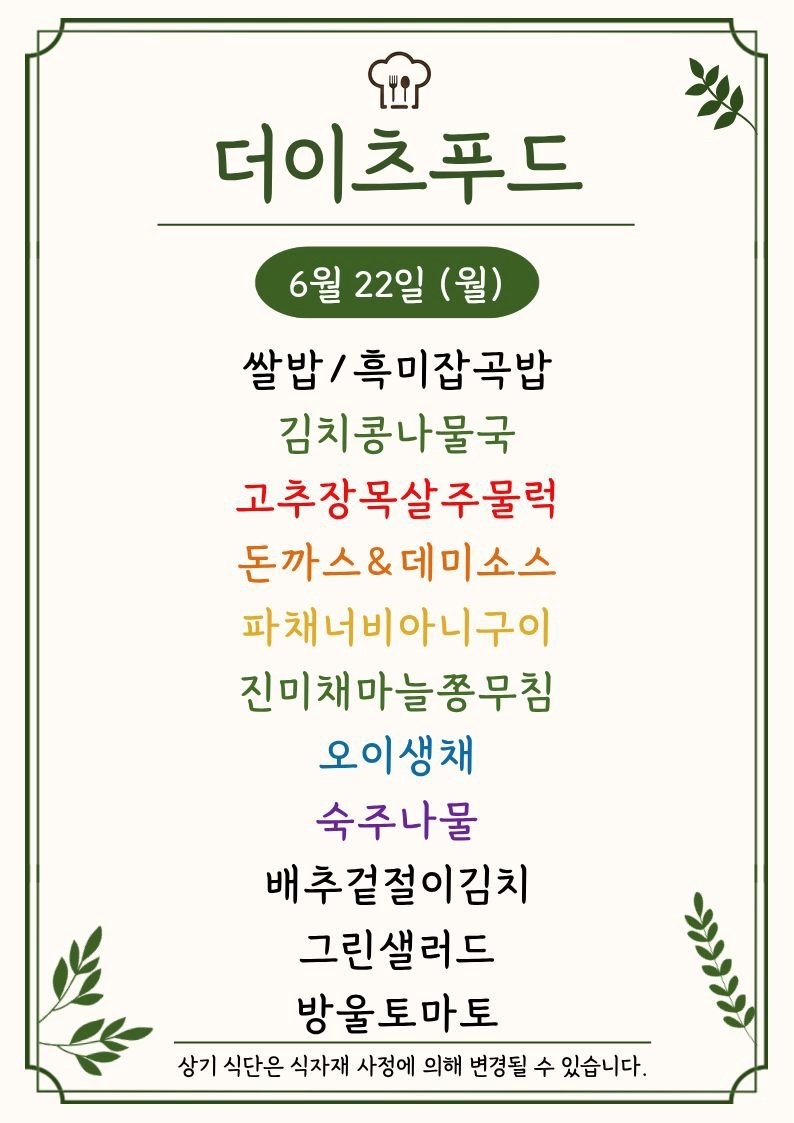
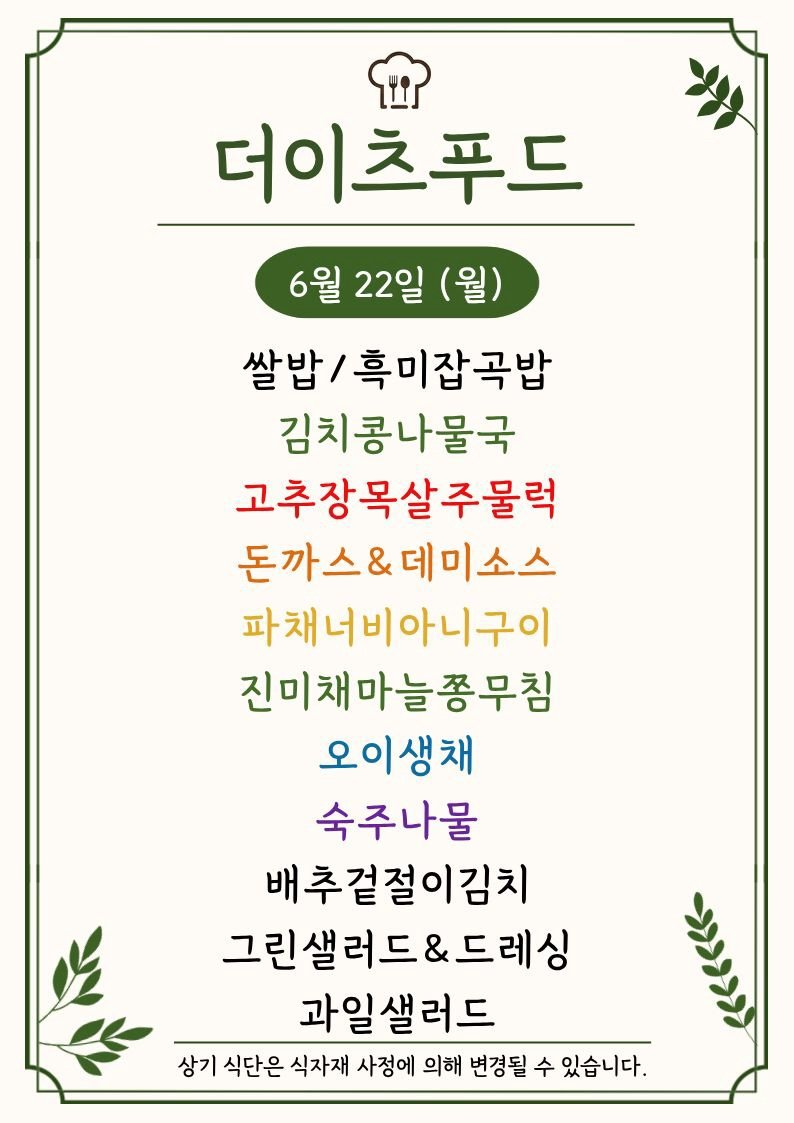
Update menu board assets

Changed region(s): [[0.3023, 0.8103, 0.6045, 0.935], [0.6348, 0.8103, 0.7254, 0.8727]]

diff --git a/menu-today/index.html b/menu-today/index.html
@@ -209,7 +209,7 @@
 
     <section class="meta-bar">
       <div class="meta-card"><div class="meta-label">기준 날짜</div><div class="meta-value">2026년 6월 22일 월요일</div></div>
-      <div class="meta-card"><div class="meta-label">최종 가져온 시간</div><div class="meta-value">2026-06-22 11:18:15</div></div>
+      <div class="meta-card"><div class="meta-label">최종 가져온 시간</div><div class="meta-value">2026-06-22 11:33:08</div></div>
       <div class="meta-card"><div class="meta-label">확인 완료</div><div class="meta-value">9개 식당</div></div>
       <div class="meta-card"><div class="meta-label">준비중</div><div class="meta-value">3개 채널</div></div>
     </section>
@@ -295,7 +295,7 @@
             <div class="sub">에이스테크노타워10차</div>
           </div>
         </div>
-        <div class="menu-inline-image"><img src="./images/thefoodsketch.png" alt="더푸드스케치 식단 이미지"></div><ul><li>유부어묵탕</li><li>숫불돼지길비구이</li><li>후라이드치킨 / 치폴레S</li><li>코코닛쉬림프커리</li><li>김치전</li><li>콩나물무침</li><li>가든샐러드 / 드레싱</li><li>배추겉절이 / 음료</li><li>유부어묵탐</li><li>조물돼지길비구이</li></ul>
+        <div class="menu-inline-image"><img src="./images/thefoodsketch.png" alt="더푸드스케치 식단 이미지"></div><ul><li>유부어묵탕</li><li>숫불돼지길비구이</li><li>후라이드치킨 / 치폴레S</li><li>코코닛쉬림프커리</li><li>김치전</li><li>콩나물무침</li><li>가든샐러드 &amp; 드레싱</li><li>배추겉절이 / 음료</li><li>유부어묵탐</li><li>조물돼지길비구이</li></ul>
       </article>
 
       <article class="restaurant-card">

diff --git a/guro-menu/index.html b/guro-menu/index.html
@@ -32,7 +32,7 @@
   </header>
   <section class="meta">
     <div><small>기준 날짜</small><strong>2026년 6월 22일 월요일</strong></div>
-    <div><small>최종 갱신</small><strong>2026-06-22 11:18:29</strong></div>
+    <div><small>최종 갱신</small><strong>2026-06-22 11:33:19</strong></div>
     <div><small>등록 식당</small><strong>5개</strong></div>
   </section>
   <div class="notice">공개 카카오 채널의 메뉴 이미지를 자동 수집하고 OCR로 정리합니다. 텍스트에 오타가 있을 수 있으니 식단 이미지를 함께 확인해 주세요.</div>
@@ -75,8 +75,8 @@
           <a class="channel" href="https://pf.kakao.com/_xeVwxnn" target="_blank" rel="noopener">원본 채널</a>
         </div>
         <img class="menu-image" src="./images/the-eats-food.png" alt="더이츠푸드 식단 이미지" loading="lazy">
-        
-        <ul><li>2 2으22222압072싸</li><li>쌀밥/흑미잡곡밥</li><li>김치콩나물국</li><li>고추장목살주물럭</li><li>돈까스 &amp;데미소스</li><li>파채너비아니구이</li><li>오이생채</li><li>숙주나물</li><li>배추겉절이김치</li><li>그린샐러드 Y</li><li>방울토마토</li></ul>
+        <p class="message">최신 공개 식단 이미지의 텍스트입니다. 날짜는 원본 이미지를 확인해 주세요.</p>
+        <ul><li>이츠푸드</li><li>6% 22일 (월)</li><li>쌀밥/흑미잡곡밥</li><li>김치콩나물국</li><li>고추장목살주물럭</li><li>돈까스 &amp;데미소스</li><li>진미채마늘종무침</li><li>오이생채</li><li>숙주나물</li><li>배추겉절이김치 &#x27;</li><li>aaaycecaa 봅</li><li>과일샐러드 컵</li></ul>
       </article>
 
       <article class="restaurant-card">
